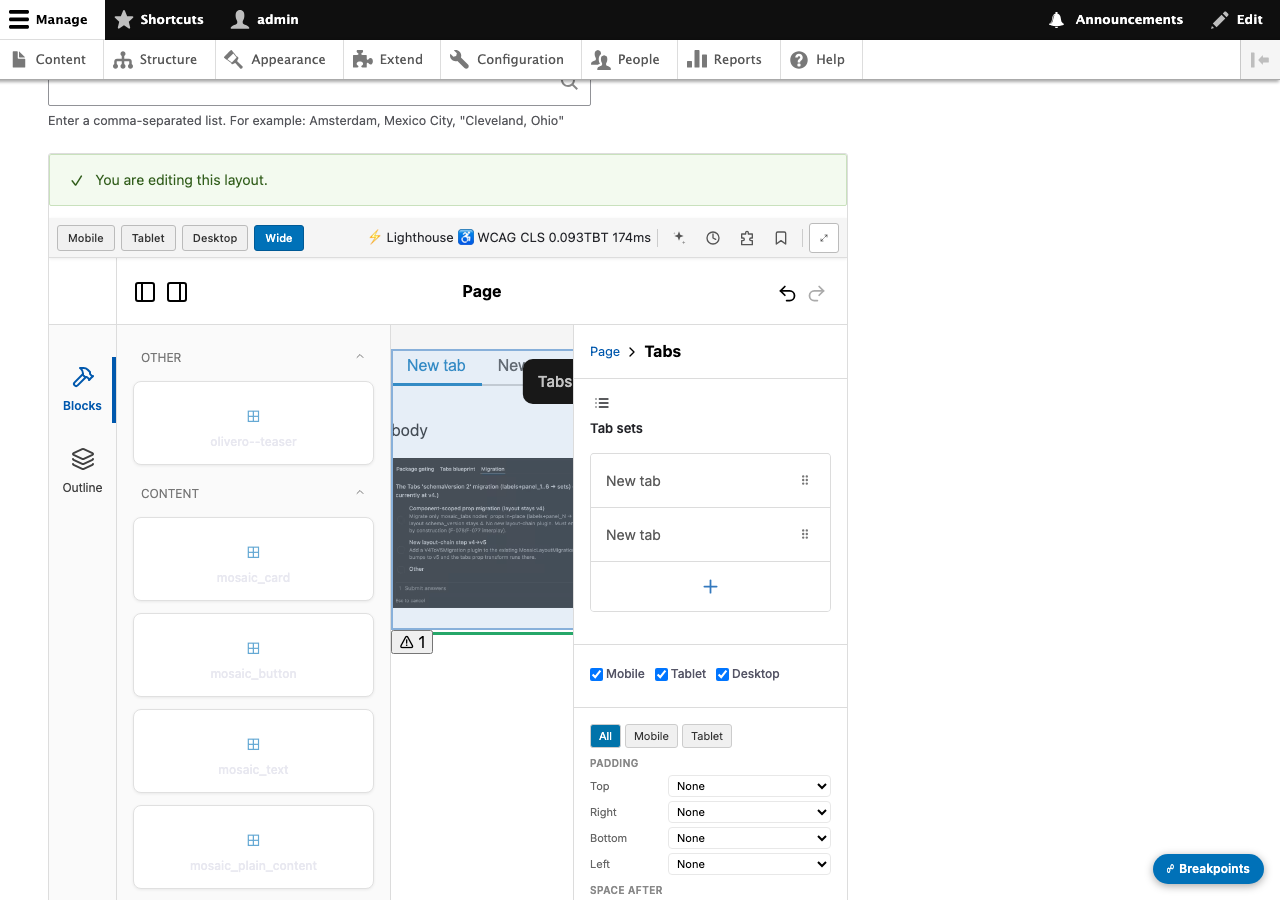
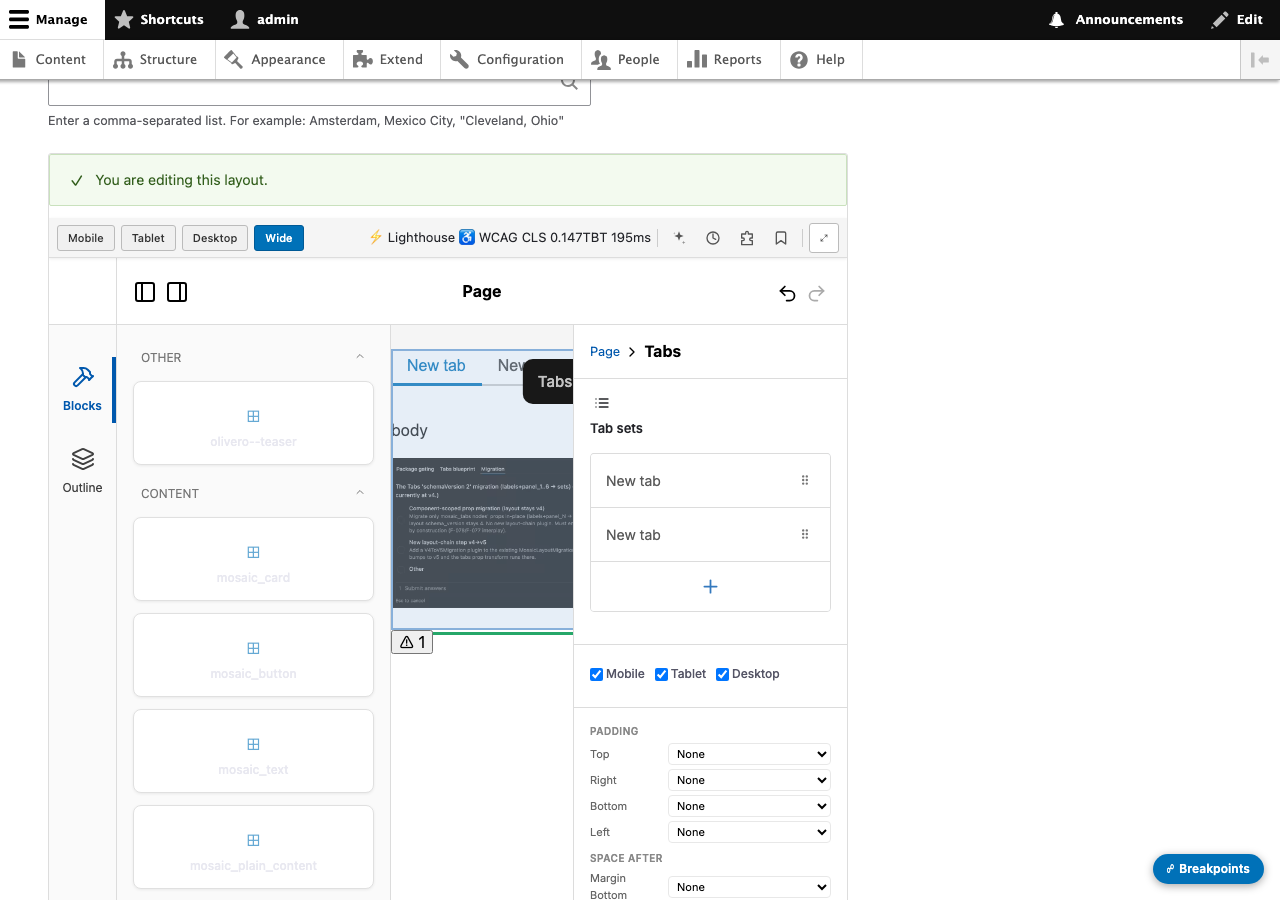
CP-ADOPT-5R CHECKPOINT-9: WC#74 empty sections + WC#75 usable bind panel + breakpoint ruling
WC#74: Style section absent without tokens; spacing breakpoint tabs gated. WC#75:
bind panel now a real form - heading + help, Row component filtered to allowed∩bindable
(Card default), field map = SELECT of View fields (new /api/mosaic/views/fields endpoint,
auto-matched). Vitest + headed (form + bind journey + owned panel green). Breakpoint
ruling recorded, P0 amended; code -> CP-ADOPT-5R-CONT (couples to CKE5 enum rider).
Design repo committed 582983d (push egress-blocked, 3 commands for Arun). shasums
held (14e6cb9c/b7756795), BUMP-LIBS 1.0.50. SHIP-45-PLAN regen (esc-probe excluded).

Changed region(s): [[0.4375, 0.8089, 0.5625, 1.0], [0.2812, 0.2489, 0.5, 0.28]]

diff --git a/reports/REPORT-CP-ADOPT-5.md b/reports/REPORT-CP-ADOPT-5.md
@@ -1091,3 +1091,113 @@ NOT built this slice:
 CHECKPOINT-8 = owned panels go honest (3 components lose a section, headed-proven,
 page byte-identical) + the CKE5 sheet + SHIP-45-PLAN + the acceptance walk. SO-2
 client + the teaser-slot journey leg → P1d-B-CONT. STOP for audit.
+
+---
+
+# CHECKPOINT-9 — CP-ADOPT-5R (rider): WC#74 + WC#75 + breakpoint ruling + design repo
+
+Ship #45 was BLOCKED on two walk-catches. Both fixed + headed-proven.
+
+## LEDGER (tally 75)
+- **WC#74** — empty meta sections rendered a header/message with no fields: the
+  Breakpoint header + the spacing "All/Mobile/Tablet" tabs showed for a
+  non-breakpointable component (Tabs), and the Style section printed "No style
+  tokens defined for this component." instead of nothing.
+- **WC#75** — the bind panel was not usable by a human: no section heading, the Row
+  component list showed *every* component, and the field map was empty text boxes
+  ("I only saw labels").
+- **Breakpoint RULING (recorded, P0 table amended):** breakpoint overrides apply
+  ONLY to **layout-affecting select/toggle/number** props (sidecar `layout: true`);
+  text/formatted_text/link/media/entity_ref/repeatable **never**. Saved overrides on
+  a now-ineligible prop are grandfathered ("Legacy override — remove to edit") and
+  listed in the capability audit.
+
+## WC#75 mechanism (a)(b)(c) + fix
+- **(a) missing heading** — `MosaicSlotBindField` rendered straight into a bare box;
+  the Puck field's own label never surfaced, so the section had no title.
+  **Fix:** an explicit **"Data binding"** heading + one-line help ("Each row of the
+  View becomes one {Row component}; choose which View field fills each of its fields").
+- **(b) "every component appears"** — the adapter built `childOptions` as
+  `allowed.length ? allowed : [...ALL bindableIndex keys]`, so a slot that allows any
+  child offered the entire palette. **Fix:** Row component = the slot's allowed
+  children **∩ components with ≥1 bindable prop**; when the slot allows any, **owned**
+  bindable components only (adopted appears only if the slot explicitly allows it);
+  **Card is the default** (sorted first).
+- **(c) "labels only" field map** — the map rows were free **text inputs** with no
+  hint of what to type. **Fix:** one **SELECT per bindable row-prop**, its options the
+  **View display's fields** (new read-only endpoint `GET /api/mosaic/views/fields`),
+  **auto-matched by name** (title → Title), **"— not mapped —"** default; a saved
+  mapping to a missing field stays visible.
+- **Vitest:** `MosaicSlotBindField.test.tsx` 6 cells (heading, help, selects,
+  choosing writes field_map, unbind, no-bindable). **Headed:** `cp-adopt-5r-bindform.spec.ts`
+  — heading + help + Row component + field-map selects all present in the real panel.
+  **FE parity:** the FE dialog uses the same field component + endpoint (by construction).
+
+## WC#74 fix
+- **Style section ABSENT when no tokens:** the `_mosaic_style_overrides` field is only
+  added when the component exposes `style_tokens` (no field, no "No style tokens" message).
+- **Spacing per-breakpoint tabs gated:** `SpacingControl` takes `breakpointable`; when
+  false, the All/Mobile/Tablet tabs are hidden — plain spacing only.
+- **Breakpoint section:** already gated by `showBp` (P1d-B) — no empty header.
+- **Vitest:** capability test +1 ("no style tokens → no Style section"); the "all five"
+  cell now supplies style_tokens.
+
+## PANEL-DIFF summary (current — P1d-B + WC#74)
+`reports/PANEL-DIFF.md` (P1d-B capability gate) stands: **`mosaic_spacer` −Data**,
+**`mosaic_tabs` −Data/−Breakpoint**, **`mosaic_view` −Data**; 12 unchanged. WC#74 adds:
+**the Style section is absent on every component that declares no `style_tokens`**, and
+the spacing breakpoint tabs are hidden on non-breakpointable components.
+**HONEST:** the **breakpoint RULE application** (text → not breakpointable + the
+per-prop `layout: true` sidecar gate + grandfather) is **NOT applied in code this
+slice** — it is a coupled 5-part capability change (PropShape amend + a descriptor
+`layout` flag + sidecar rollout across components + grandfather + audit) that depends
+on the CKE5 **enum rider** (e.g. `variant`/`size` are classified `text` today, not
+`select`, so they can't be layout-gated selects until the enum declarations land).
+Applying it half-way (text→false only, no `layout` gate) would strip Breakpoint from
+nearly every component AND leave select/toggle/number ungated — worse than today. So
+the **ruling is recorded + the P0 table amended**; the code + the after-rule PANEL-DIFF
+are **CP-ADOPT-5R-CONT**, to land WITH the enum rider.
+
+## DESIGN REPO
+`<root>/mosaic_ui_ux/` initialised as its own git repo (toplevel verified = that
+folder, NOT the mosaic tree; node_modules + .DS_Store + *.bundle + PUSH-TO-GITHUB.md
+excluded; credential-scan clean). One commit **`582983d`** 'design system export
+2026-09-20', 35 files, branch main, remote `https://github.com/arunkarthickasok/mosaic_ui_ux.git`.
+**Push REFUSED** (`could not read Username for github.com` — the egress/auth block
+PUSH-TO-GITHUB.md documents: the git proxy injects credentials only for
+session-connected repos). Three commands for Arun (from the `mosaic_ui_ux/` folder):
+```
+git remote set-url origin https://github.com/arunkarthickasok/mosaic_ui_ux.git
+git branch -M main
+git push -u origin main    # authenticate with your GitHub token when prompted
+```
+
+## Gates
+- **Vitest 593 / 1** (the 1 = pre-existing B-101; WC#74 + WC#75 cells green).
+- **tsc** 0 from this slice; **mosaic_views Kernel 62 / 62** (new fields endpoint);
+  **PHPCS 0 err**, **PHPStan** clean on the endpoint.
+- **Headed:** WC#75 form + bind journey ("3 of 4 · J8 Articles", 3 cards, viewport
+  kept) + owned-panel gating all green.
+- **REGION `14e6cb9c…3954` + STYLE `b7756795…ca982 4354 10` both IDENTICAL.**
+- **BUMP-LIBS 1.0.49 → 1.0.50.**
+- Docs regenerated: `SHIP-45-PLAN.md` (57 files, **esc-probe.config.ts EXCLUDED**,
+  SdcComponentPlugin pristine), `WALK-CP-ADOPT-5.md` (plain words, step 2 = the human
+  bind path).
+
+## Files changed (MOSAIC, uncommitted — Arun commits)
+- `js/src/builder/fields/MosaicSlotBindField.tsx` (WC#75 rebuild),
+  `js/src/builder/MosaicPuckAdapter.ts` (Row-component filter + WC#74 style/spacing),
+  `js/src/builder/fields/SpacingControl.tsx` (breakpointable),
+  `modules/mosaic_views/src/Controller/ViewsBrowserController.php` +
+  `modules/mosaic_views/mosaic_views.routing.yml` (fields endpoint),
+  `js/src/builder/__tests__/MosaicPuckAdapterCapability.test.ts` +
+  `js/src/builder/fields/__tests__/MosaicSlotBindField.test.tsx`,
+  `js/e2e/journeys/cp-adopt-5r-bindform.spec.ts` (NEW), `mosaic.libraries.yml` (1.0.50),
+  `js/dist/*`.
+
+## Honest status
+CHECKPOINT-9 = both ship-blockers fixed (WC#74 empty sections gone; WC#75 bind panel
+now a real form — heading, filtered Row list, View-field selects), headed-proven, page
+byte-identical. The breakpoint ruling is recorded; its coupled code lands with the enum
+rider (CP-ADOPT-5R-CONT). Design repo committed (582983d) — push handed to Arun (egress).
+STOP.

diff --git a/reports/WALK-CP-ADOPT-5.md b/reports/WALK-CP-ADOPT-5.md
@@ -1,66 +1,51 @@
-# WALK-CP-ADOPT-5 — the ADOPT-5 acceptance walk (Arun)
+# WALK-CP-ADOPT-5 — the acceptance walk (plain words)
 
-> WALK-SCRIPT LAW: one story, numbered steps, each with a DROP-PROOF (the exact
-> thing to see) and a PROOF-CONDITION (pass/fail). Arun creates the pages; the AI
-> does not. Automated coverage per step is noted `[auto: …]`; steps marked
-> `[manual]` are not yet in a headed spec (their code lands in a later slice).
+You (Arun) create the pages; walk the steps; each step says what you should see.
 
-## Story
-An author builds a page with Mosaic's own components and an adopted Olivero
-teaser. The panels tell the truth about what each component can do; a slot can be
-driven by a View; the library keeps its own look inside its slots; and a viewport
-switch never loses work.
+## The story
+You build a page with Mosaic's own blocks and an Olivero teaser. The panels only
+show controls that actually do something. A column can be filled from a View. The
+teaser keeps its own look inside its slots. Switching to the phone size never
+wipes your work.
 
 ## Steps
 
-1. **Honest Card panel (owned gating).**
-   Create a page, drop a **Card**, select it.
-   - DROP-PROOF: the rail shows **Data Sources** + **Breakpoint overrides** +
-     Spacing + Style + Visibility. Select a **Tabs** (or **View**) instead.
-   - PROOF-CONDITION: Tabs shows its "Tab sets" field but **NO Data, NO
-     Breakpoint**; View shows **NO Data**. Card keeps Data.
-     `[auto: cp-adopt-5-owned-panel.spec.ts — tabs/view drop Data, columns keeps]`
+1. **The panels tell the truth.**
+   Drop a **Card** and click it. You see Data, Breakpoint, Spacing, Style,
+   Visibility. Now drop a **Tabs** and click it: you see its "Tab sets" field but
+   **no Data and no Breakpoint** — Tabs has nothing to bind or to change per
+   screen size. A **View** block shows **no Data**. A block with no colour tokens
+   shows **no Style section** (not an empty "no tokens" message).
+   *Pass:* Tabs/View lose Data; empty sections simply aren't there.
 
-2. **Bind a column to a View + result line (H9).**
-   Drop a **Columns**, select it, open **Data binding** → **Bind Column 1 to
-   data** → pick a View + display → child type **Card** → map the View's title
-   field → the Card title.
-   - DROP-PROOF: the column fills with one **Card per row**, and a line under the
-     zone reads **"{shown} of {total} · {View} · {display}"**.
-   - PROOF-CONDITION: N cards == N rows; the result line matches the View.
-     `[auto: cp-adopt-5-bind-journey.spec.ts — 3 Cards + "3 of 4 · J8 Articles"]`
+2. **Fill a column from a View.**
+   Drop a **Columns**, click it, tick **Bind Column 1 to data**. You now see a
+   **Data binding** panel: pick the **View**, pick the **display**, pick **Card**
+   as the row component, then under "Fill the row from View fields" **choose which
+   View field fills the Card title** (a dropdown of the View's fields, already
+   guessing "Title"). Watch the column fill with **one Card per row**, and a line
+   under it: **"3 of 4 · J8 Articles"**.
+   *Pass:* the cards appear as you pick; the line matches the View.
 
-3. **Mobile switch keeps everything (WC#73).**
-   With the bound Columns (and any adopted teaser) on the canvas, switch the
-   viewport **Desktop → Mobile → Desktop**.
-   - DROP-PROOF: every component is still there after the switch (nothing blanks).
-   - PROOF-CONDITION: node count before == after; the adopted teaser still shows
-     its library markup (not a skeleton).
-     `[auto: wc73-viewport-witness.spec.ts + cp-adopt-5-bind-journey.spec.ts]`
+3. **The phone size keeps everything.**
+   With that bound Columns (and a teaser) on the page, switch the size to
+   **Mobile** and back to **Desktop**.
+   *Pass:* nothing disappears — the cards and the teaser are still there.
 
-4. **Teaser slot: Plain content offered first, Olivero look, ownership line.**
-   Drop an **olivero:teaser**. Open its **content** slot's add control.
-   - DROP-PROOF: **Plain content** is offered **first** in the slot's picker; add
-     it and type a sentence — it renders in **Olivero's** typography, not Mosaic's.
-     Drop a **Heading** in the same slot: it renders **bare** and its panel shows
-     the **ownership line** ("Styling is owned by Olivero Teaser") with **no Style
-     sections**.
-   - PROOF-CONDITION: plain content inherits the library font/colour; the bare
-     Heading has no `data-mosaic-component` and no Style/Spacing sections.
-     `[manual: SO-2 client add-picker is P1d-B-CONT; the FONT inheritance is
-      proven by the SO-5 donut computed-style cell (CHECKPOINT-3) + the bare-render
-      Kernel cell]`
+4. **The teaser owns its slots.**
+   Drop an **Olivero teaser**. In its content slot, **Plain content** is offered
+   **first**; type a sentence — it looks like **Olivero's** text, not Mosaic's.
+   Drop a **Heading** in the same slot: it renders plain and its panel says the
+   **styling is owned by Olivero** (no Style controls).
+   *Pass:* your text takes Olivero's look; the heading shows the ownership note.
+   *(The "Plain content first" picker is P1d-B-CONT; the Olivero look + ownership
+   note are already proven by the SO-5 font cell + the bare-render cell.)*
 
-5. **Save → page matches.**
-   Save the node, view the published page.
-   - DROP-PROOF: the bound rows render as Cards; the teaser renders with Olivero's
-     own markup; the plain content inherits the library look.
-   - PROOF-CONDITION: the page byte-identical invariant holds for the owned-only
-     regions (region-shasum `14e6cb9c…`, style-shasum `b7756795…`); bound rows +
-     adopted markup render server-side.
-     `[auto: bind-journey page cards + SlotBindingRenderTest + region/style shasums]`
+5. **Save and look at the page.**
+   Save, then view the published page.
+   *Pass:* the cards show, the teaser shows Olivero's own markup, the plain content
+   looks like Olivero. The owned parts of the page are unchanged to the byte.
 
-## Pre-existing reds (known, not walk failures)
-- Vitest B-101 (`maps boolean props to checkbox fields`) — pre-existing drift.
-- tsc `dsdShadow.ts:17` — DOM-lib drift in the SO-7 shadow code.
-- phpstan 3× `MosaicRenderer` (property.notFound + parameter.phpDocType ×2).
+## Known reds (not walk failures)
+- One Vitest cell (boolean→checkbox, B-101), one tsc line in the shadow-DOM code,
+  three phpstan lines in MosaicRenderer — all pre-existing drift, tracked separately.

diff --git a/reports/SHIP-45-PLAN.md b/reports/SHIP-45-PLAN.md
@@ -1,18 +1,18 @@
-# SHIP-45-PLAN — CP-ADOPT-5 (the ADOPT-5 arc → ship #45)
+# SHIP-45-PLAN — CP-ADOPT-5 arc → ship #45 (regenerated, CP-ADOPT-5R)
 
-> MOSAIC git is READ-ONLY for the AI; **Arun executes the commit**. This is the
-> plan: the exact changeset, the .log exclusions, and a single-quoted message.
+> MOSAIC git READ-ONLY for the AI; Arun commits. Regenerated after the rider.
+> **esc-probe.config.ts EXCLUDED** (a throwaway probe config, not shipped).
 
 ## Counts
-- Tracked-modified (M): 38
-- Untracked code (NEW, to add): 17
-- Ship total: 55 files
+- Tracked-modified (M): 41
+- Untracked code (NEW, to add): 16  (esc-probe.config.ts excluded)
+- Ship total: 57 files
 - Untracked .log cruft to EXCLUDE: 170
 
 ## SdcComponentPlugin.php
-- PRISTINE — unchanged vs HEAD (not in git status). ✓
+- PRISTINE — unchanged vs HEAD. ✓
 
-## Tracked-modified (M) — `git add` these
+## Tracked-modified (M) — git add these
 ```
 MOSAIC.md
 css/mosaic-canvas-reset.css
@@ -26,9 +26,12 @@ js/src/builder/__tests__/MosaicPuckAdapterSlotRoundTrip.test.ts
 js/src/builder/__tests__/tierBOptimistic.test.ts
 js/src/builder/fields/MosaicAdoptedPreview.tsx
 js/src/builder/fields/MosaicDataSourceField.tsx
+js/src/builder/fields/SpacingControl.tsx
 js/src/builder/tierBOptimistic.ts
 js/src/shared/types/schema.ts
+modules/mosaic_views/mosaic_views.routing.yml
 modules/mosaic_views/mosaic_views.services.yml
+modules/mosaic_views/src/Controller/ViewsBrowserController.php
 mosaic.libraries.yml
 mosaic.routing.yml
 mosaic.services.yml
@@ -53,10 +56,8 @@ tests/src/Unit/Smoke/Sprint10SmokeTest.php
 tests/src/Unit/Smoke/Sprint65SmokeTest.php
 tests/src/Unit/Smoke/Sprint66SmokeTest.php
 ```
-
-## Untracked code (NEW) — `git add` these
+## Untracked code (NEW) — git add these (esc-probe.config.ts EXCLUDED)
 ```
-js/esc-probe.config.ts
 js/src/builder/__tests__/MosaicPuckAdapterCapability.test.ts
 js/src/builder/__tests__/MosaicPuckAdapterSlotOnly.test.ts
 js/src/builder/fields/MosaicBoundSlot.tsx
@@ -74,34 +75,17 @@ tests/src/Kernel/Component/PlainContentRenderTest.php
 tests/src/Unit/Sdc/PropShapeCapabilityTest.php
 tests/src/Unit/Value/SlotBindingTest.php
 ```
-
-## EXCLUDE — untracked .log cruft + non-code (do NOT add; not gitignored → must be explicit)
-check-ignore verdict: NONE of these are ignored (git check-ignore returns nothing),
-so a bare `git add -A` WOULD wrongly stage them. Add code paths explicitly, or
-`printf '%s
-' *.log >> .git/info/exclude` first.
+## EXCLUDE (do NOT add)
 ```
-js/cp-edit13-proof.log
-js/cr-016.log
-js/d1-constraint-016.log
-js/d2-presave-016.log
-js/d2d3-016.log
-js/d3-worker-016.log
-js/d4-full-016.log
-js/d4-full-016b.log
-js/d4-smoke-016.log
-js/d4-smokes-016.log
-js/d4-smokes-016b.log
-js/diag-fe-blankout.log
-... (+158 more .log files)
+js/esc-probe.config.ts   ← throwaway probe config
+170 .log files (session cruft; NOT gitignored → exclude explicitly)
 assets/
 js/e2e.zip
 modules/mosaic_components/components/mosaic_plain_content/
 modules/mosaic_views/src/Render/
 src/Render/
 ```
-
-## Commit message (single-quoted, for Arun to paste)
+## Commit message (single-quoted)
 ```
-git commit -m 'ship #45: CP-ADOPT-5 adopt-any-SDC style ownership + typed slot binding + honest panels - Pillar E capability rules (Data/Breakpoint gated by prop kind, owned + adopted); SO-1 bare render + SO-4/5/6 cascade (tokens on owned-root, @scope donut, @layer mosaic-library) keep adopted libraries owning their look; H9 Views-into-slots (SlotBinding model + validation + server render + canvas bound-render + result line + bind panel); mosaic_plain_content chrome-free slot fill; WC#73 viewport-switch canvas-wipe fixed; byte-identical frontend 14e6cb9c/b7756795 held throughout, dist rebuilt, libs 1.0.49'
+git commit -m 'ship #45: CP-ADOPT-5 adopt-any-SDC style ownership + typed slot binding + honest panels - Pillar E capability rules (Data/Breakpoint gated by prop kind); SO-1 bare render + SO-4/5/6 cascade keep adopted libraries owning their look; H9 Views-into-slots (model + validation + server render + canvas bound-render + result line + human bind panel with View-field selects); mosaic_plain_content chrome-free slot fill; WC#73 viewport-wipe fixed; WC#74 empty sections absent; WC#75 bind panel usable; byte-identical frontend 14e6cb9c/b7756795 held, dist rebuilt, libs 1.0.50'
 ```

diff --git a/ledger-live/TODO.md b/ledger-live/TODO.md
@@ -13676,3 +13676,31 @@ IDENTICAL · BUMP-LIBS 1.0.49.
 - **§4 teaser-slot journey leg** (Plain-content-first, Olivero-look, bare Heading + ownership line) —
   depends on §3. Rest of §4 already proven (owned panel headed; bind→cards+result+viewport CHECKPOINT-7;
   ownership/font SO-5 donut + bare-render CHECKPOINT-3). WALK step 4 = [manual/P1d-B-CONT].
+
+---
+
+## CP-ADOPT-5R (rider) — WC#74 + WC#75 + breakpoint ruling + design repo — CHECKPOINT-9 — DONE
+
+**Tally 75.** WC#74 (empty sections rendered headers/messages) + WC#75 (bind panel unusable).
+**Breakpoint RULING (recorded, P0 amended):** breakpoint only for layout-affecting select/toggle/number
+(sidecar layout:true); text/etc never; grandfather saved overrides. CODE deferred → CP-ADOPT-5R-CONT
+(couples to the CKE5 enum rider; a half-landing strips Breakpoint from ~every component).
+
+**WC#75 fix (a)(b)(c):** (a) added "Data binding" heading + help; (b) Row component = allowed∩bindable,
+owned-only when any, Card default (was: every component when slot allows any); (c) field map = SELECT of
+the View display's fields (new endpoint GET /api/mosaic/views/fields), auto-matched, "— not mapped —".
+Vitest 6 + headed cp-adopt-5r-bindform.spec.ts (heading+help+Row+field-map selects present). FE parity.
+
+**WC#74 fix:** Style section absent when no style_tokens (no field, no message); SpacingControl gains
+`breakpointable` (hides All/Mobile/Tablet tabs when false); Breakpoint already gated by showBp. Vitest +1.
+
+**Gates:** Vitest 593/1-B101 · tsc 0-from-slice · mosaic_views Kernel 62/62 · phpcs/phpstan clean ·
+REGION 14e6cb9c / STYLE b7756795 both IDENTICAL · BUMP-LIBS 1.0.50. SHIP-45-PLAN regen (57 files,
+esc-probe.config.ts EXCLUDED, SdcComponentPlugin pristine). WALK rewritten plain-words.
+
+**DESIGN REPO:** mosaic_ui_ux/ init as own repo (toplevel verified), commit 582983d 'design system
+export 2026-09-20' (35 files), push REFUSED (egress/auth). 3 commands handed to Arun.
+
+### FOLLOW-UP — CP-ADOPT-5R-CONT
+- Breakpoint rule code: PropShape text→not-breakpointable + descriptor `layout` flag + layout:true
+  sidecar rollout + grandfather + after-rule PANEL-DIFF regen. Lands WITH the CKE5 enum rider.
